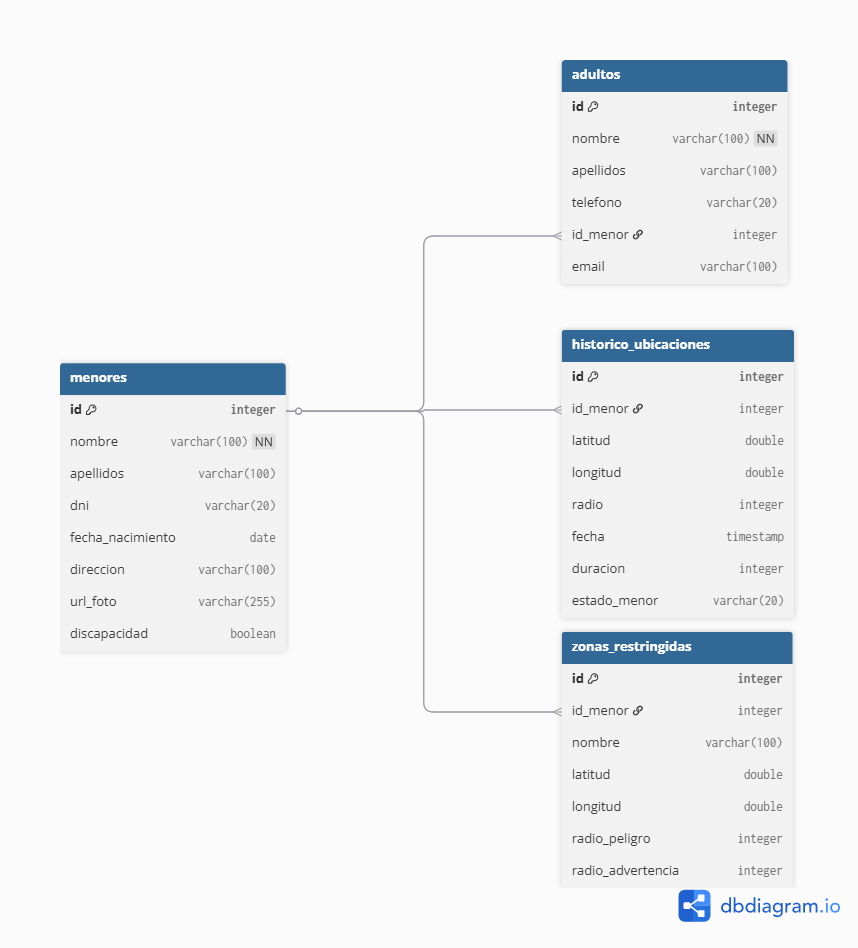
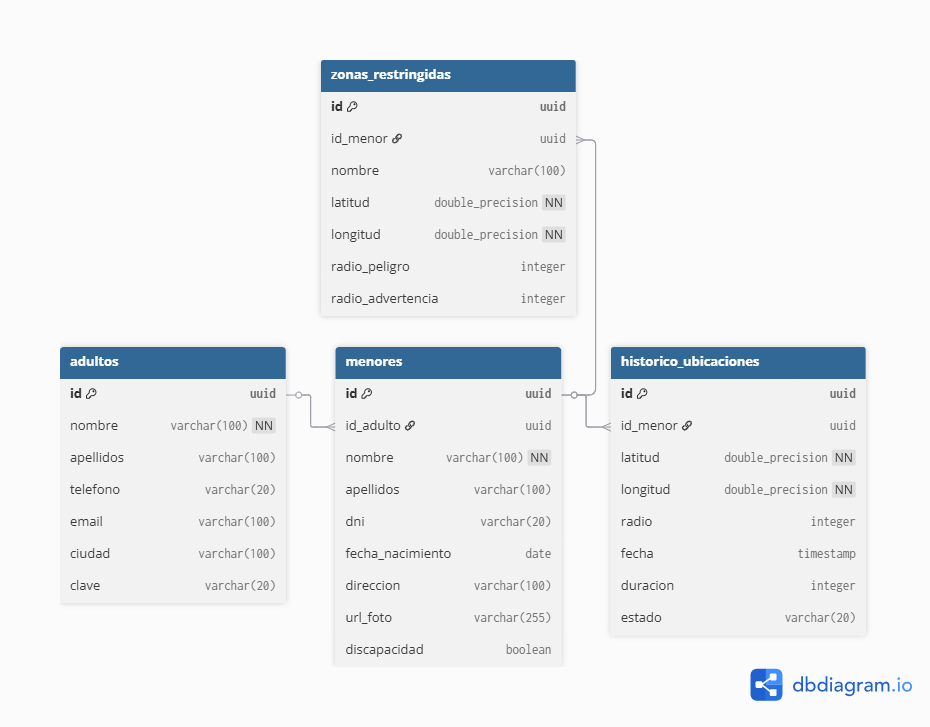
clave adultos y docker compose bien

diff --git a/api/main.py b/api/main.py
@@ -59,6 +59,7 @@ class Adultos(BaseModel):
     telefono: str
     email: str
     ciudad: str
+    clave: str
 
 class ZonasRestringidas(BaseModel):
     id: UUID = Field(default_factory = uuid4)
@@ -115,7 +116,8 @@ def crear_tablas():
                 apellidos VARCHAR(100),
                 telefono VARCHAR(20), 
                 email VARCHAR(100),
-                ciudad VARCHAR(100)
+                ciudad VARCHAR(100), 
+                clave VARCHAR(20)
             );
         """))
         conn.execute(text("""
@@ -214,8 +216,8 @@ async def obtener_ids_menores(db = Depends(obtener_conexion)):
 async def crear_adulto(adulto: Adultos, db = Depends(obtener_conexion)):
     try:
         consulta = text("""
-            INSERT INTO adultos (id, nombre, apellidos, telefono, email, ciudad)
-            VALUES (:id, :nombre, :apellidos, :telefono, :email, :ciudad)
+            INSERT INTO adultos (id, nombre, apellidos, telefono, email, ciudad, clave)
+            VALUES (:id, :nombre, :apellidos, :telefono, :email, :ciudad, :clave)
         """)
 
         db.execute(consulta, adulto.model_dump())

diff --git a/Generadores/Personas/generar_personas.py b/Generadores/Personas/generar_personas.py
@@ -57,7 +57,8 @@ def generar_adulto():
         "apellidos": f"{apellido_paterno} {apellido_materno}",
         "telefono": fake.phone_number(),
         "email": fake.email(),
-        "ciudad": random.choice(ciudades)
+        "ciudad": random.choice(ciudades),
+        "clave": fake.password(length = 10)
     }
 
 def generar_menor(id_adulto, apellidos, ciudad):
